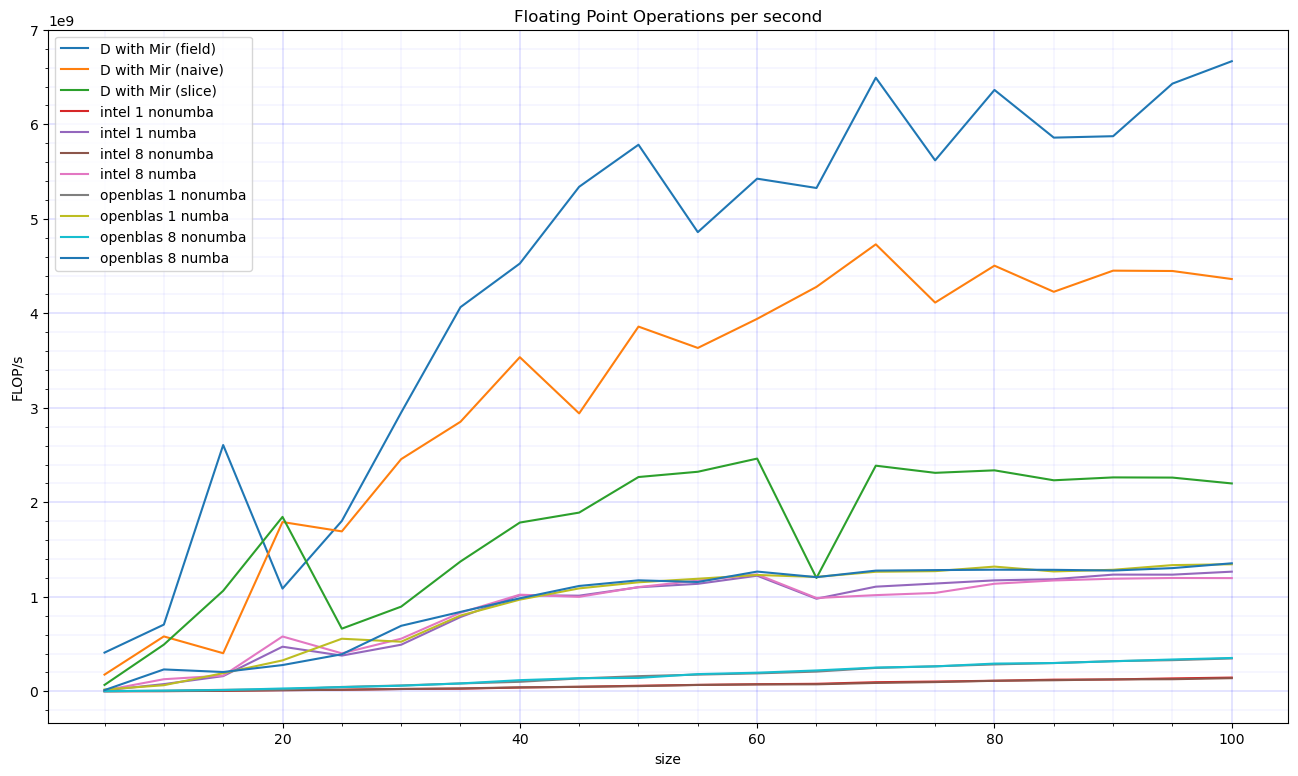
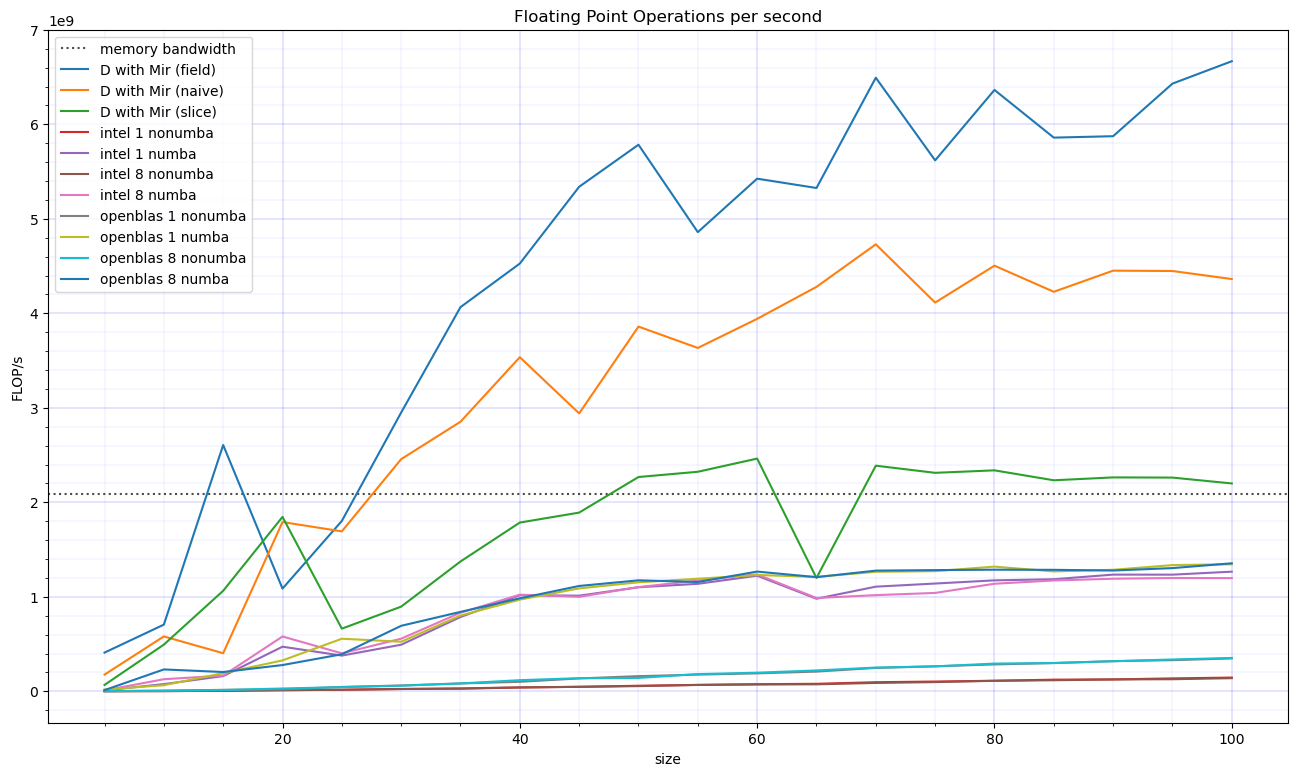
also added the membandwith line to gsrb

Changed region(s): [[0.0616, 0.0619, 0.1849, 0.3711]]

diff --git a/scripts/data.py b/scripts/data.py
@@ -145,8 +145,8 @@ def plot_cache_lines(fig):
 
 
 def plot_membandwidth(fig):
-    if not options.lines:
-        return
+    # if not options.lines:
+    #     return
     # calculation from there
     # https://moodle.rrze.uni-erlangen.de/pluginfile.php/16786/mod_resource/content/1/09_06_04-2020-PTfS.pdf
     # take triad value and divide by 16 since it produces 2 flops per 32 byte

diff --git a/README.md b/README.md
@@ -417,7 +417,7 @@ Stream benchmark is not aware of the write allocated
 (see [here](https://moodle.rrze.uni-erlangen.de/pluginfile.php/16786/mod_resource/content/1/09_06_04-2020-PTfS.pdf) on slide 20)
 and needs to be corrected.
 To to get the FLOP/s this value is then divided by 16, since for every 32 MB that is written
-there are 2 Floting Point operations.
+there are 2 floating point operations.
 
 |                      Flop/s                       |                       Time                       |
 | :-----------------------------------------------: | :----------------------------------------------: |
